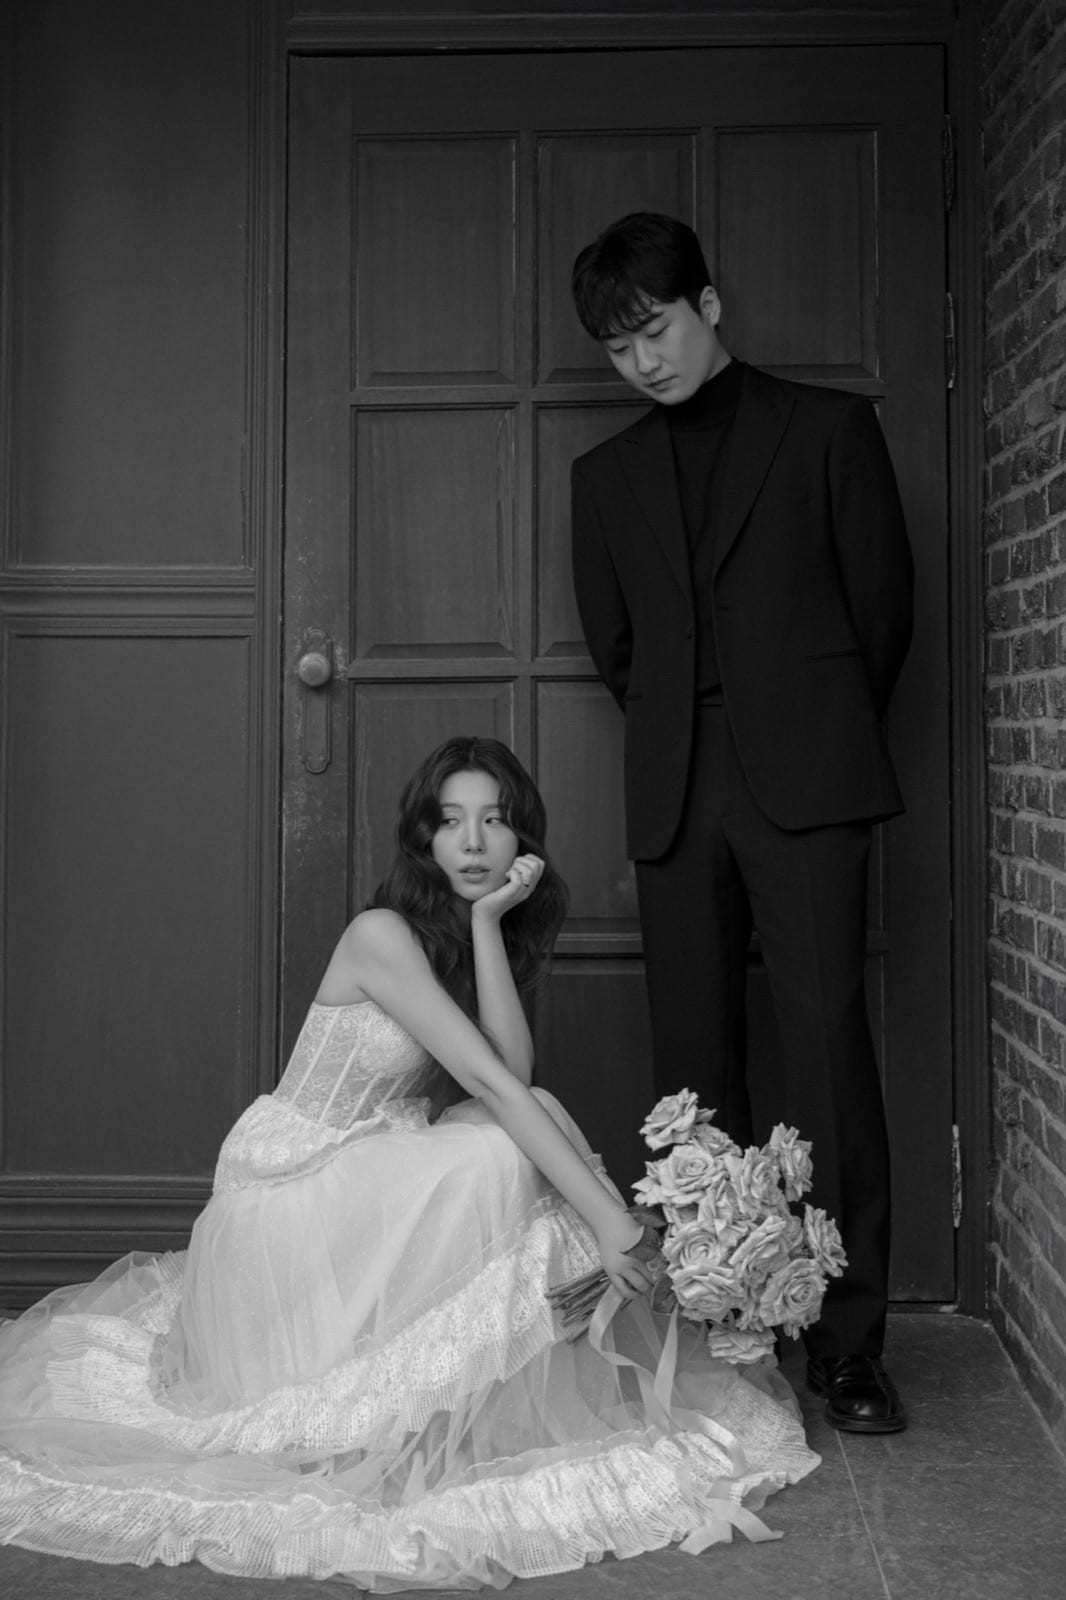
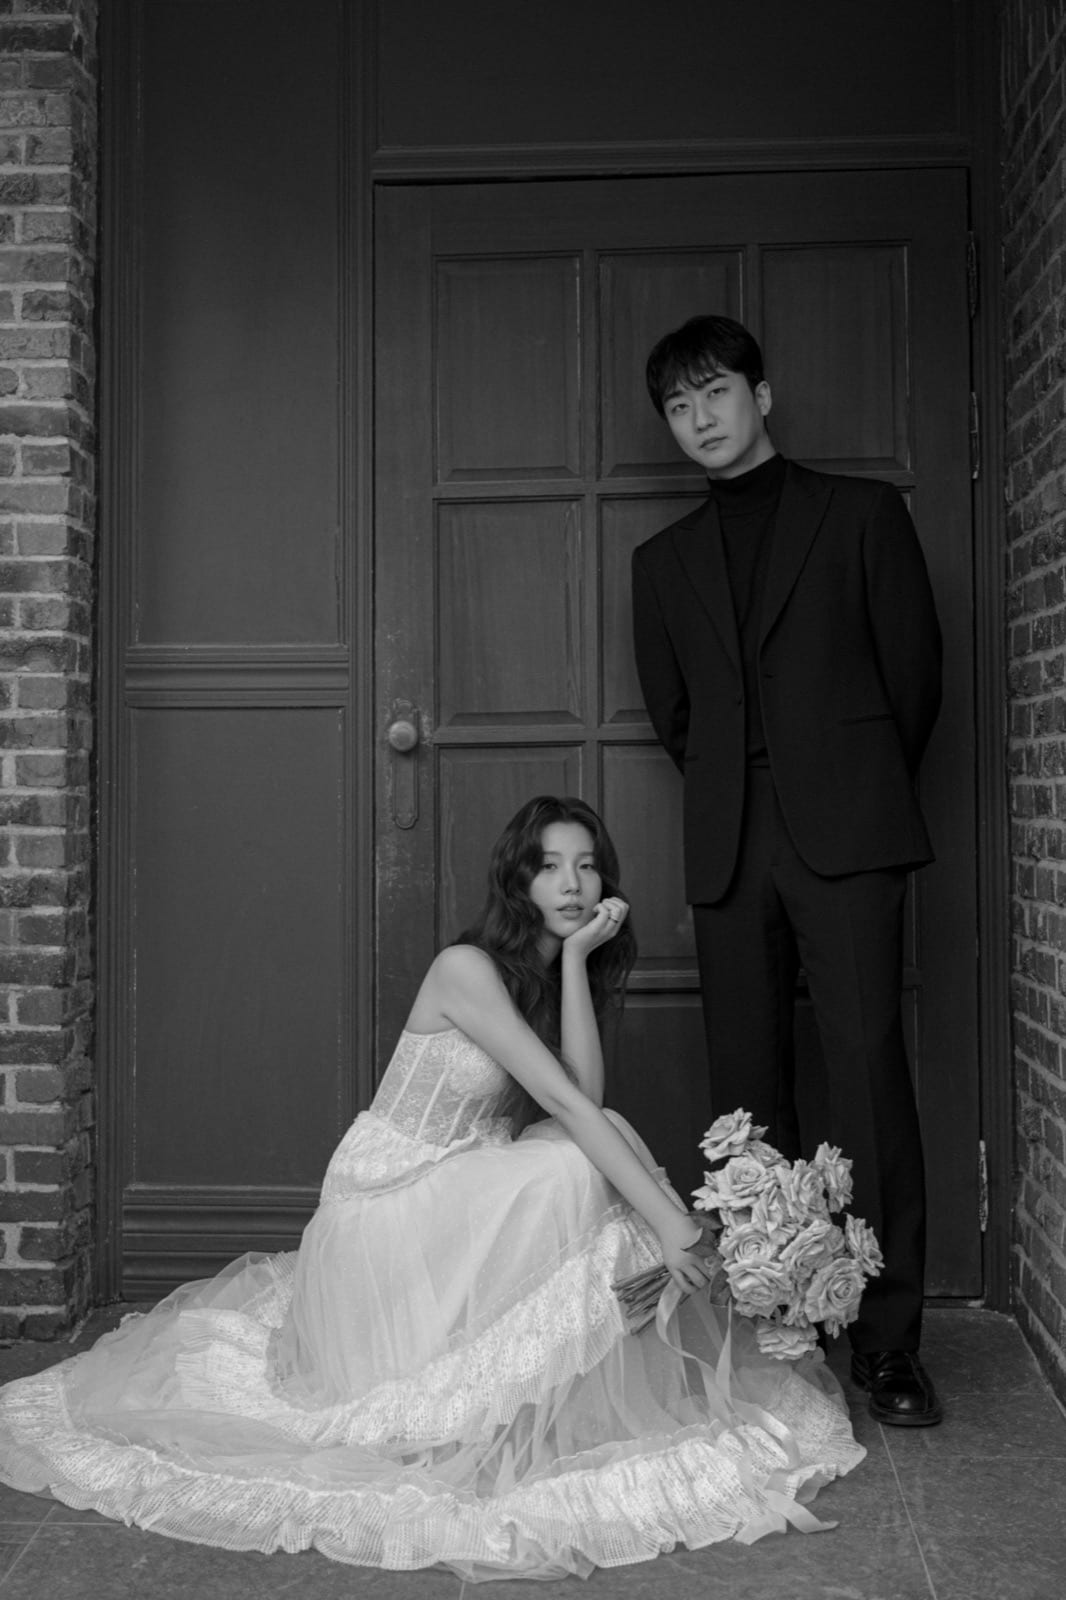
style: 갤러리 큰사진 개별 위치/확대 보정(2·3·6~8·10~15·17·21·23·25·29) + 4↔5, 18↔19 순서 교체

diff --git a/app/components/Gallery.tsx b/app/components/Gallery.tsx
@@ -10,6 +10,27 @@ import "swiper/css/thumbs";
 import "swiper/css/free-mode";
 import { weddingData } from "@/lib/wedding-data";
 
+// 큰 메인 사진 개별 보정 (갤러리 표시번호 기준). objectFit cover라 3:4 박스에서 잘리는 걸 위치/확대로 조정.
+// pos = objectPosition "x% y%" (y 클수록 사진 아래쪽이 보여 피사체가 위로 올라옴 / y 작을수록 위쪽·머리가 보임)
+const MAIN_ADJUST: Record<number, { pos?: string; scale?: number }> = {
+  2: { pos: "50% 88%", scale: 1.05 }, // 아래 드레스 더 보이게 + 살짝 확대
+  3: { pos: "50% 12%" },              // 머리 더 보이게(위쪽)
+  6: { pos: "50% 68%" },              // 살짝 위로
+  7: { pos: "50% 66%", scale: 1.12 }, // 살짝 위로 + 확대
+  8: { pos: "50% 68%" },              // 살짝 위로
+  10: { pos: "50% 68%" },             // 살짝 위로
+  11: { pos: "50% 68%" },             // 살짝 위로
+  12: { pos: "50% 32%" },             // 살짝 아래로(위 치우침)
+  13: { pos: "50% 68%" },             // 살짝 위로
+  14: { pos: "50% 68%" },             // 살짝 위로
+  15: { pos: "50% 68%" },             // 살짝 위로
+  17: { pos: "50% 68%" },             // 살짝 위로
+  21: { pos: "50% 32%" },             // 살짝 아래로(위 치우침)
+  23: { pos: "50% 68%" },             // 살짝 위로
+  25: { pos: "8% 50%", scale: 1.22 }, // 오른쪽 벽돌 가리게 왼쪽으로 + 확대
+  29: { pos: "50% 68%" },             // 살짝 위로
+};
+
 export default function Gallery({ images }: { images?: string[] }) {
   const localImages = images && images.length > 0 ? images : weddingData.galleryImages;
   const [activeIndex, setActiveIndex] = useState(0);
@@ -70,19 +91,27 @@ export default function Gallery({ images }: { images?: string[] }) {
               spaceBetween={8}
               onSlideChange={(s) => setActiveIndex(s.activeIndex)}
             >
-              {galleryImages.map((src, i) => (
+              {galleryImages.map((src, i) => {
+                const a = MAIN_ADJUST[i + 1] || {};
+                return (
                 <SwiperSlide key={i}>
                   <div
                     onClick={() => setLightboxIndex(i)}
-                    style={{ position: "relative", width: "100%", aspectRatio: "3 / 4", backgroundColor: "#E5E5E5", cursor: "pointer" }}
+                    style={{ position: "relative", width: "100%", aspectRatio: "3 / 4", backgroundColor: "#E5E5E5", cursor: "pointer", overflow: "hidden" }}
                   >
                     {/* eslint-disable-next-line @next/next/no-img-element */}
                     <img src={src} alt="" loading={i === 0 ? "eager" : "lazy"}
-                      style={{ position: "absolute", inset: 0, width: "100%", height: "100%", objectFit: "cover" }}
+                      style={{
+                        position: "absolute", inset: 0, width: "100%", height: "100%", objectFit: "cover",
+                        objectPosition: a.pos ?? "50% 50%",
+                        transform: a.scale ? `scale(${a.scale})` : undefined,
+                        transformOrigin: a.pos ?? "50% 50%",
+                      }}
                       onError={(e) => { (e.target as HTMLImageElement).style.display = "none"; }} />
                   </div>
                 </SwiperSlide>
-              ))}
+                );
+              })}
             </Swiper>
             </motion.div>
           </div>
